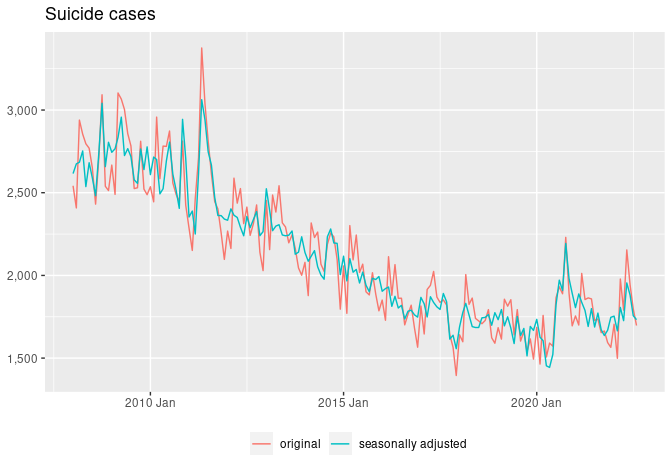
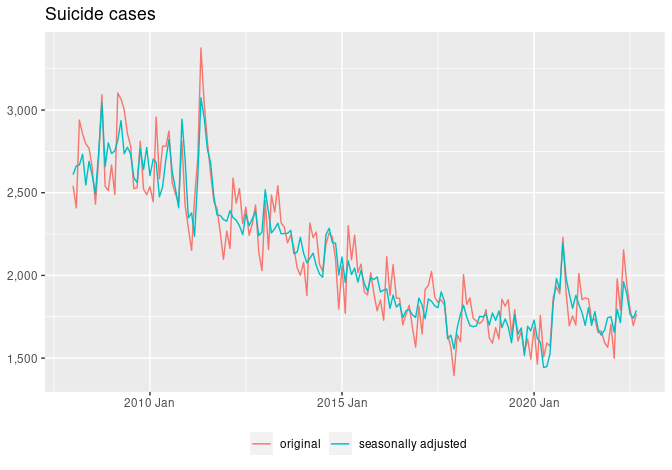
preliminary September 2022 cases

diff --git a/README.md b/README.md
@@ -14,7 +14,7 @@ Mitsuo Shiota
     id="toc-suicide-cases-are-bouncing-back-but-not-as-fast-as-the-program-suggests">Suicide
     cases are bouncing back, but not as fast as the program suggests</a>
 
-Updated: 2022-10-01
+Updated: 2022-10-12
 
 ## Motivation
 
